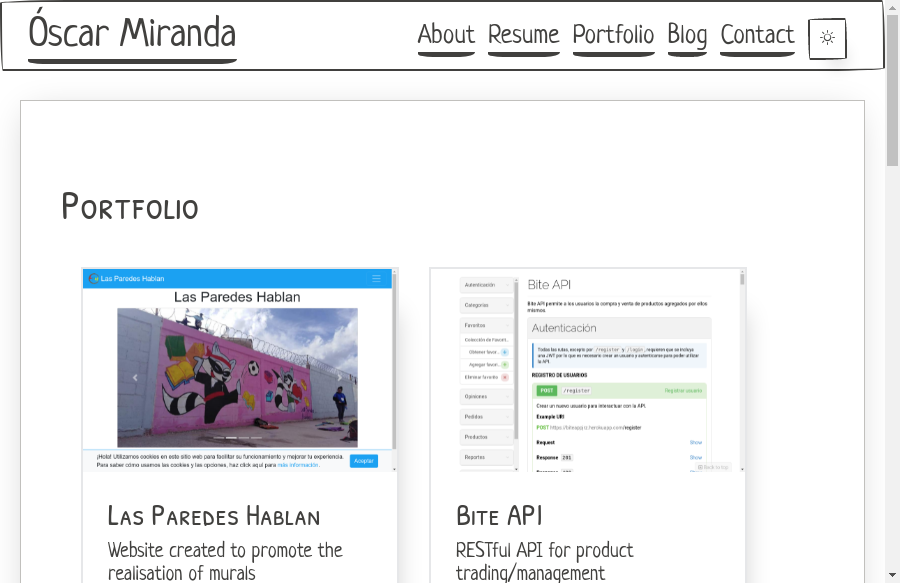
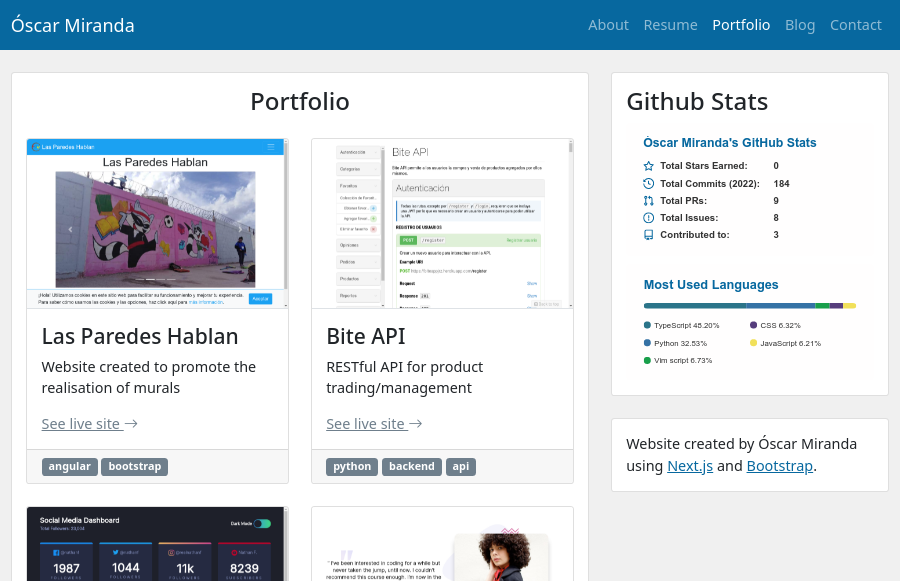
feat(portfolio): update projects info

diff --git a/src/data/projects.ts b/src/data/projects.ts
@@ -5,8 +5,8 @@ const projects: Project[] = [
 		title: 'This portfolio',
 		description: 'My own website with resume, portfolio and blog',
 		pictureUrl: '/images/portfolio.png',
-		liveUrl: 'https://oscarm3615.web.app/',
-		tags: ['react', 'papercss', 'github']
+		liveUrl: 'https://oscarm3615.github.io/',
+		tags: ['nextjs', 'react', 'bootstrap']
 	},
 	{
 		title: 'Las Paredes Hablan',
